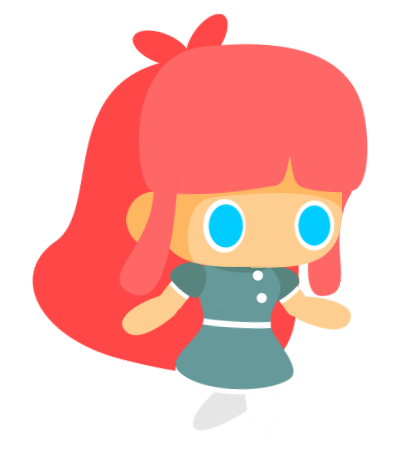
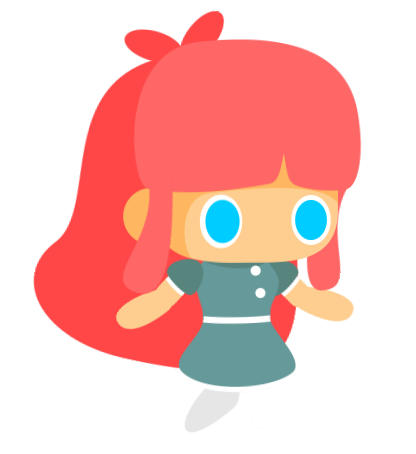
Sprite Animation Added

diff --git a/main.py b/main.py
@@ -11,36 +11,68 @@ tile_size = 25
 class Player():
   def __init__(self, x, y):
     self.images_right = []
+    self.images_left = []
     self.index = 0
     self.counter = 0
-    #for num in range(1, 21):
-      #img = pygame.image.load(f'assets/girl{num}.png')
-    img = pygame.image.load('assets/idle1.png')
-    self.image = pygame.transform.scale(img, (35, 70))
+    for num in range(1, 22):
+      img_right = pygame.image.load(f'assets/girl{num}.png')
+      img_right = pygame.transform.scale(img_right, (35, 70))
+      img_left = pygame.transform.flip(img_right, True, False)
+      self.images_right.append(img_right)
+      self.images_left.append(img_left)
+    self.image = self.images_right[self.index]
     self.rect = self.image.get_rect()
     self.rect.x = x
     self.rect.y = y
     self.width = self.image.get_width()
     self.height = self.image.get_height()
     self.velocity_y = 0
-    self.has_jumped = False
+    self.has_jumped = True
+    self.direction = 0
 
   def update(self):
     dx = 0
     dy = 0
-    #gets key presse inputs
+    walk_cd = 1
+    
+    #gets key pressed inputs
     key = pygame.key.get_pressed()
     if key[pygame.K_a]:
       dx -= 4
+      self.counter += 1
+      self.direction = -1
     if key[pygame.K_d]:
       dx += 4
+      self.counter += 1
+      self.direction = 1
     if key[pygame.K_w] and self.has_jumped == False:
-      self.velocity_y = -13
+      self.velocity_y = -11
       self.has_jumped = True
     if key[pygame.K_w] == False:
       self.has_jumped = False
+    if key[pygame.K_a] == False and key[pygame.K_d] == False:
+      self.counter = 0 
+      self.index = 0
+      if self.direction == 1:
+        self.image = self.images_right[self.index]
+      if self.direction == -1:
+        self.image = self.images_left[self.index]
     
+    #character animation
+    if self.counter > walk_cd:
+      self.counter = 0
+      self.index += 1
+      if self.index >= len(self.images_right):
+        self.index = 0
+      if self.direction == 1:
+        self.image = self.images_right[self.index]
+      if self.direction == -1:
+        self.image = self.images_left[self.index]
 
+  
+#if collide, allowed to jump
+
+      
     #creates gravity effect
     self.velocity_y += 1
     if self.velocity_y > 10:
@@ -145,9 +177,6 @@ tile_data = [
 
 level = Level(tile_data)
 
-
-class Dirt():
-  pass
 
 
 

diff --git a/src/enemy.py b/src/enemy.py
@@ -1,7 +1,7 @@
 import pygame
 import random
 
-class Mob(pygame.sprite.Sprite):
+class Enemy(pygame.sprite.Sprite):
   def __init__(self):
     super().__init__(self)
     self.speed = 1

diff --git a/src/my_controller.py b/src/my_controller.py
@@ -1,3 +1,16 @@
+
+
+
+
+
+
+
+
+
+
+
+
+
 #most of code is written in main for now, will transfer things over afterwards (please check main.py for Controller class)
      
     

diff --git a/README.md b/README.md
@@ -42,21 +42,31 @@ https://replit.com/join/cvruezeqem-johnnylu1
     * << A simple drawing that shows the class relationships in your code (see below for an example). This does not need to be overly detailed, but should show how your code fits into the Model/View/Controller paradigm. >>
         * ![class diagram](assets/class_diagram.jpg) 
 * Classes
-  *
-1. < Player > 
-    * __init__
-        * < Character that the user will be moving around and controlling. The player will have initial health that will decrease upon contact with mobs. Speed is preset. >
-    * < Methods include jumping. Crouching. Moving to the left and moving to the right. >
+1. Player
+Character that the user will be moving around and controlling. The player will have initial health that will decrease upon contact with mobs. The player is moving at constant speed.
+Methods: __init__, update.
+Instance Variables: self.images_right, self.images_left, self.index, self.counter, self.rect, self.rect.x, self.rect.y, self.width, self.height, self.velocity_y, self.has_jumped, self.direction, self.images
 
-2. < Mob > 
-    * __init__
-        * < Responsible for the monsters that will take away health from the player upon contact. They will have a preset speed. >
-    * < They will be constantly moving left or right through the randomized move left or move right methods. >
+2. Level
+Determines how the tiles are arranged
+Methods: __init__, draw
+Instance Variables: None
 
-3. < Door > 
-    * __init__
-        * < Player will interact with this to move onto next stage. Door will prompt a specific question in which the Player must answer correctly. >
-    * < Currently not sure about the methods. Will most likely include one that has to deal with the administration of questions and the acceptance of the answer > 
+3. Enemy
+Responsible for taking health away from the Player or ultimately ending the game if health drops to zero. 
+They will be constantly moving left or right at a constant pace.
+Methods: __init__, update,
+Instance Variables: self.rect, self.images, More TBD
+
+4. Door
+Player will interact with this to move onto next stage. Door will prompt a specific question in which the Player must answer correctly.
+Methods: TBD
+Instance Variables: TBD
+
+5. Controller
+Methods: __init__, mainloop, more TBD
+Instance Variables: TBD
+
 
 
 ## Project Structure and File List
